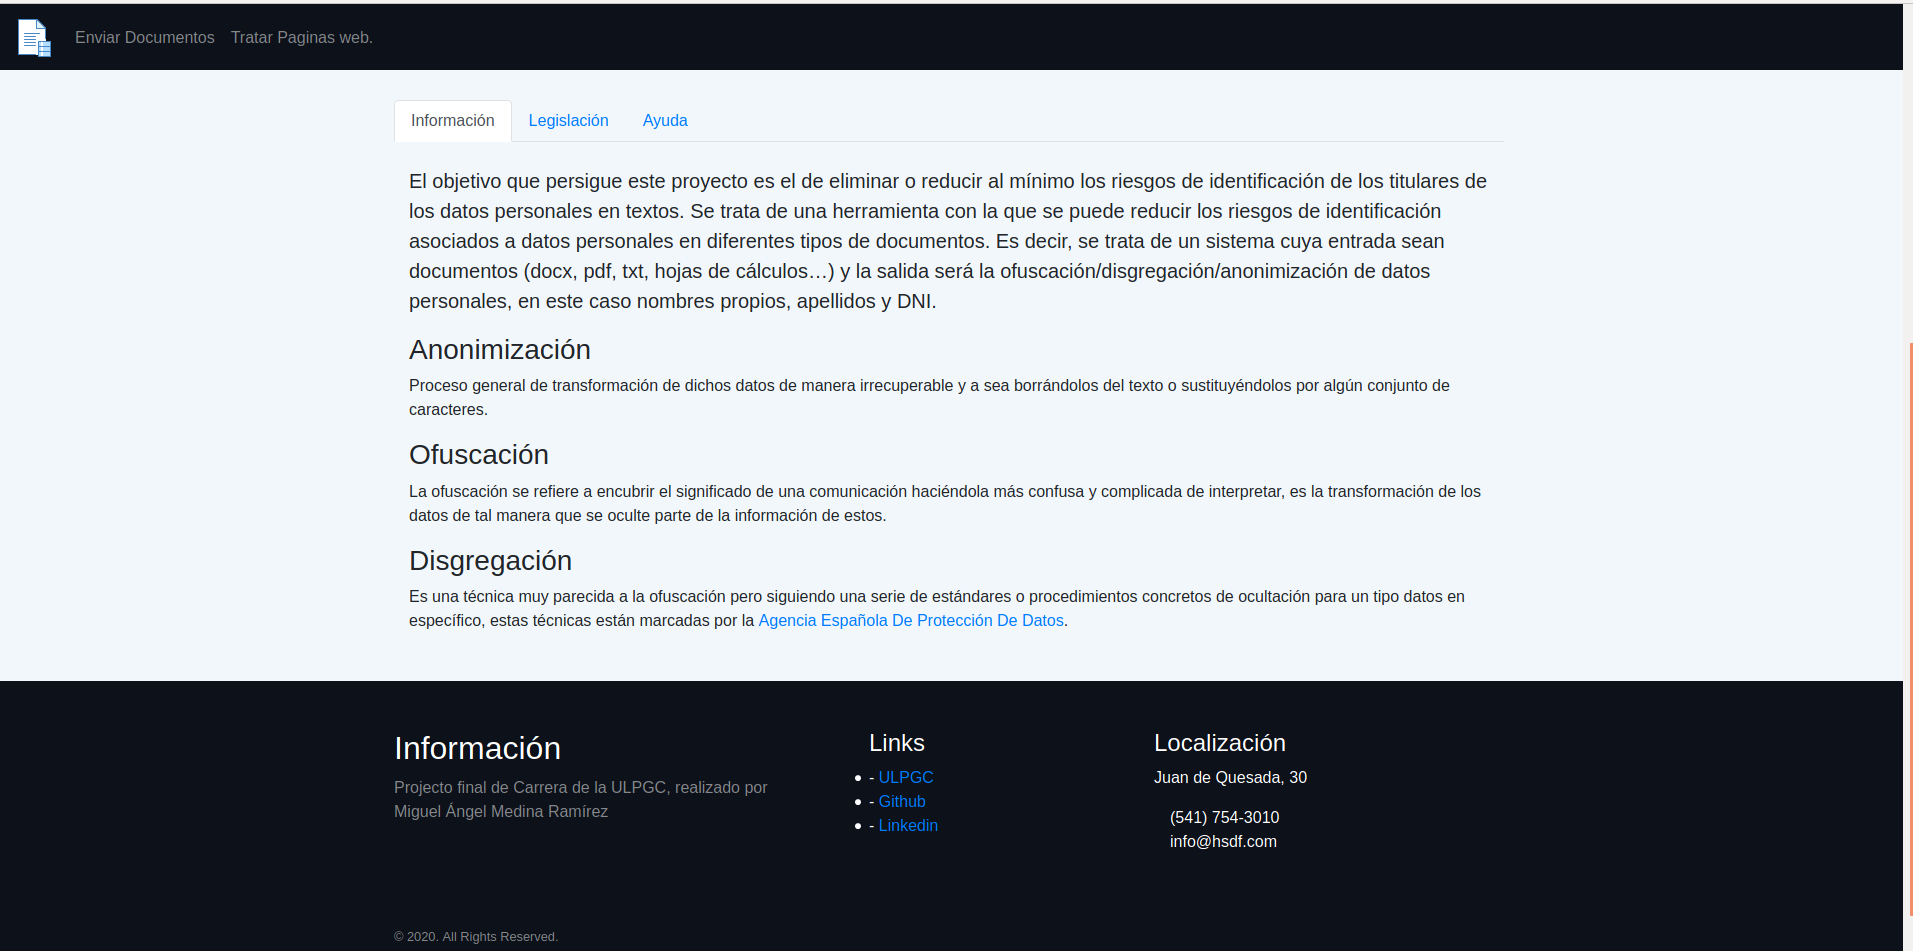
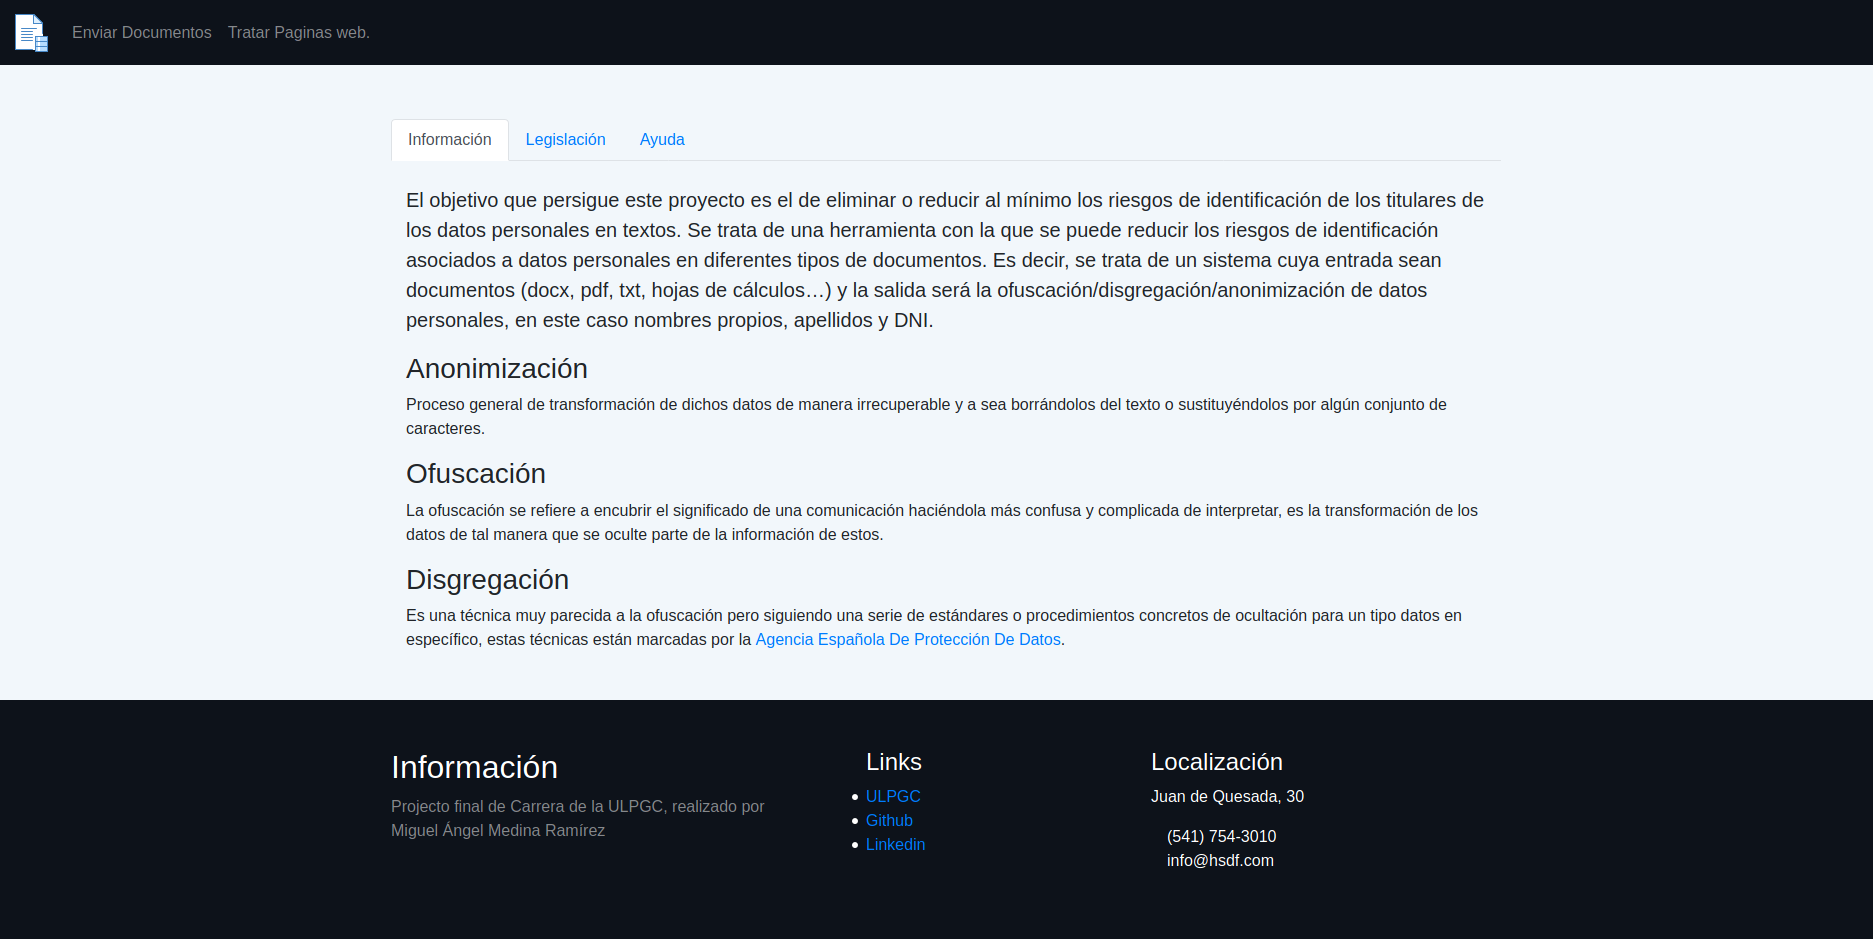
update readme

diff --git a/frontend/run.py b/frontend/run.py
@@ -11,4 +11,4 @@ def web():
     return render_template('web.html')
 
 if __name__ == "__main__":
-    app.run(port=5001, debug=True)
+    app.run(port=5001, debug=False)

diff --git a/README.md b/README.md
@@ -64,6 +64,13 @@ Tambien se propone una propuesta de frontend para que el usuario interactue con 
   Figura 3: Información, Legislación y ayuda al usuario.
 </p>
 
+<p align="center">
+  <img src="media/responsive.png" alt="legislación">
+</p>
+<p align="center">
+  Figura 4: Frontend en un móvil.
+</p>
+
 ## Ejecución
 
 Para ejecutar el proyecto se necesita tener instalado Python3.6, debido a que algunas dependencias no van bien con las recientes actualizaciones de Python al menos en el momento del desarrollo de este software.
